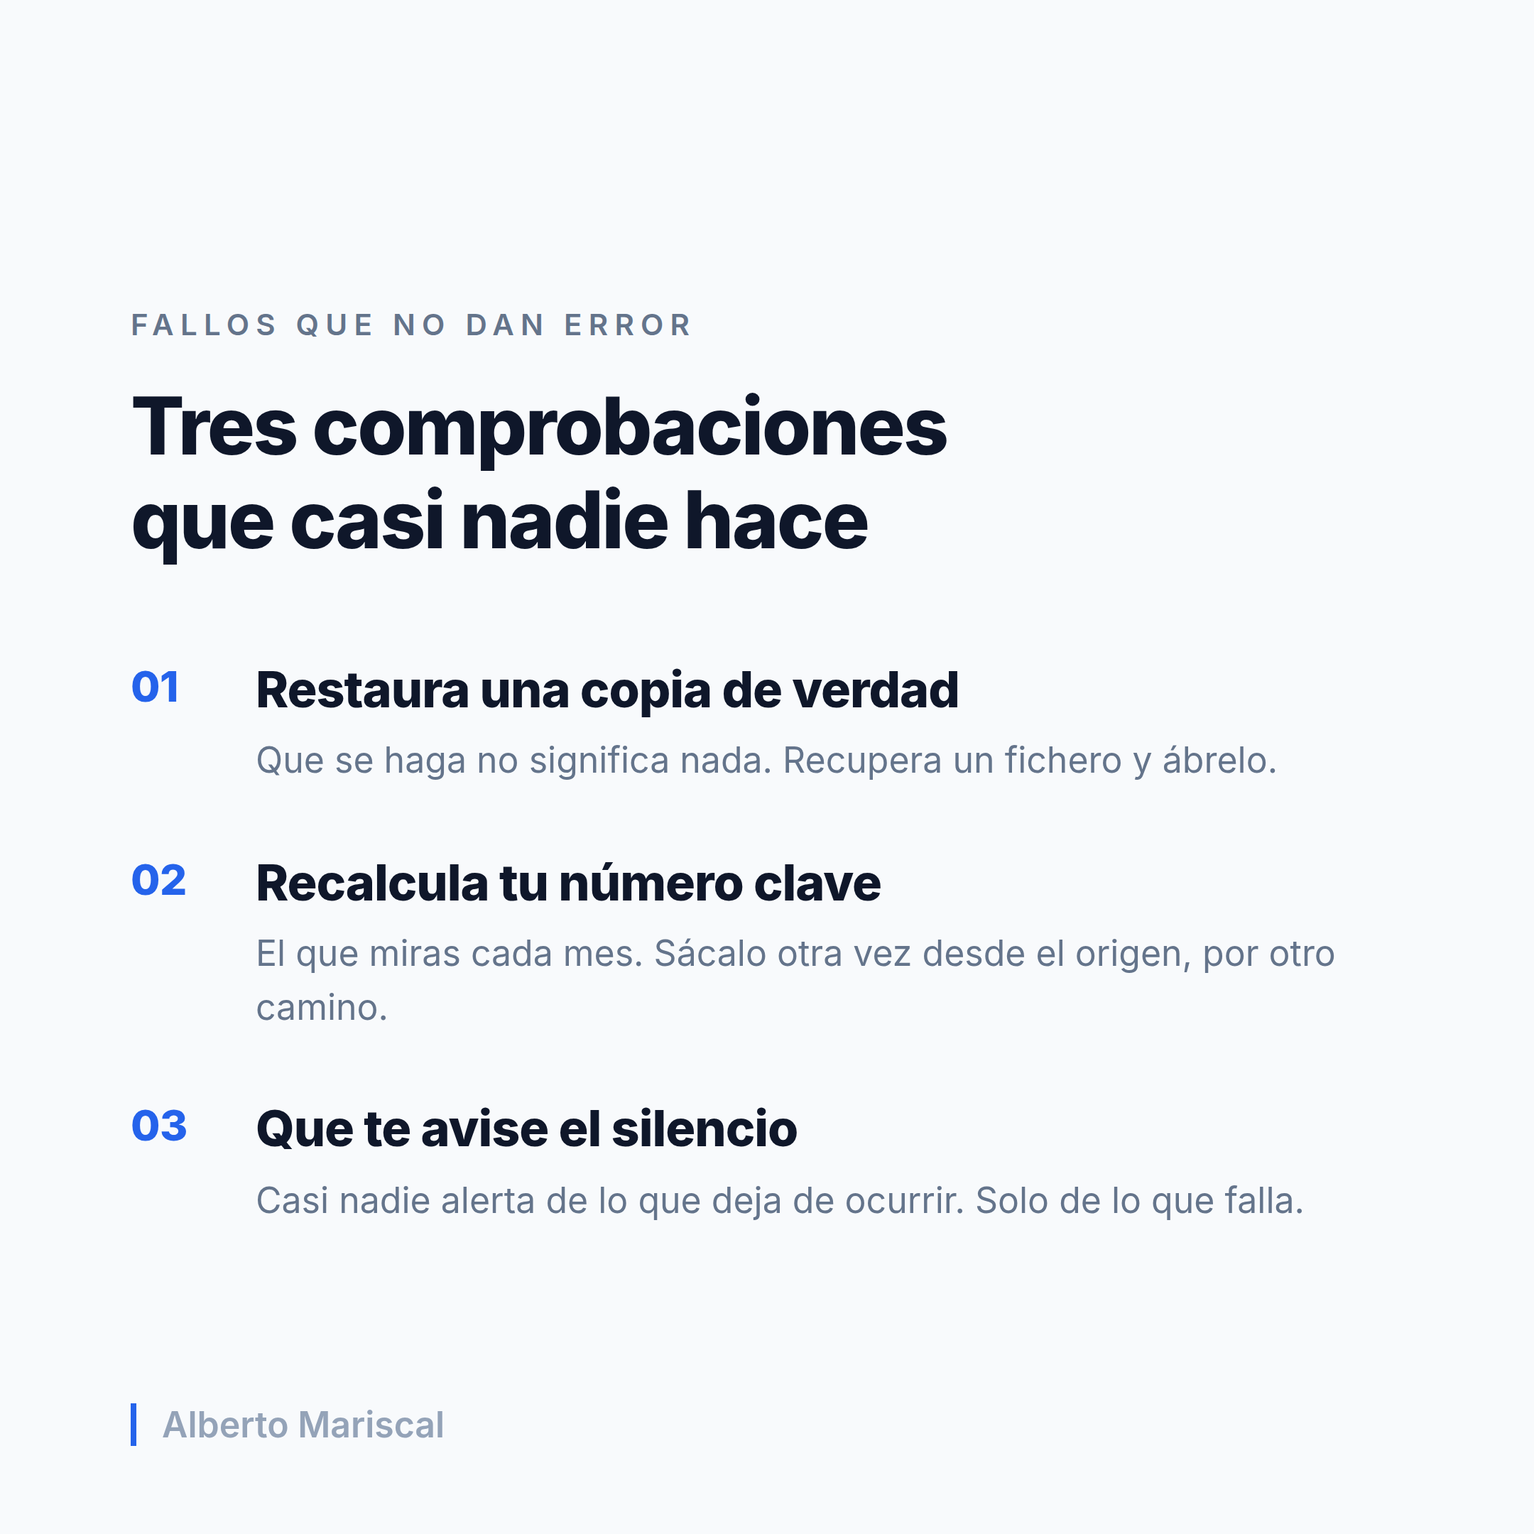
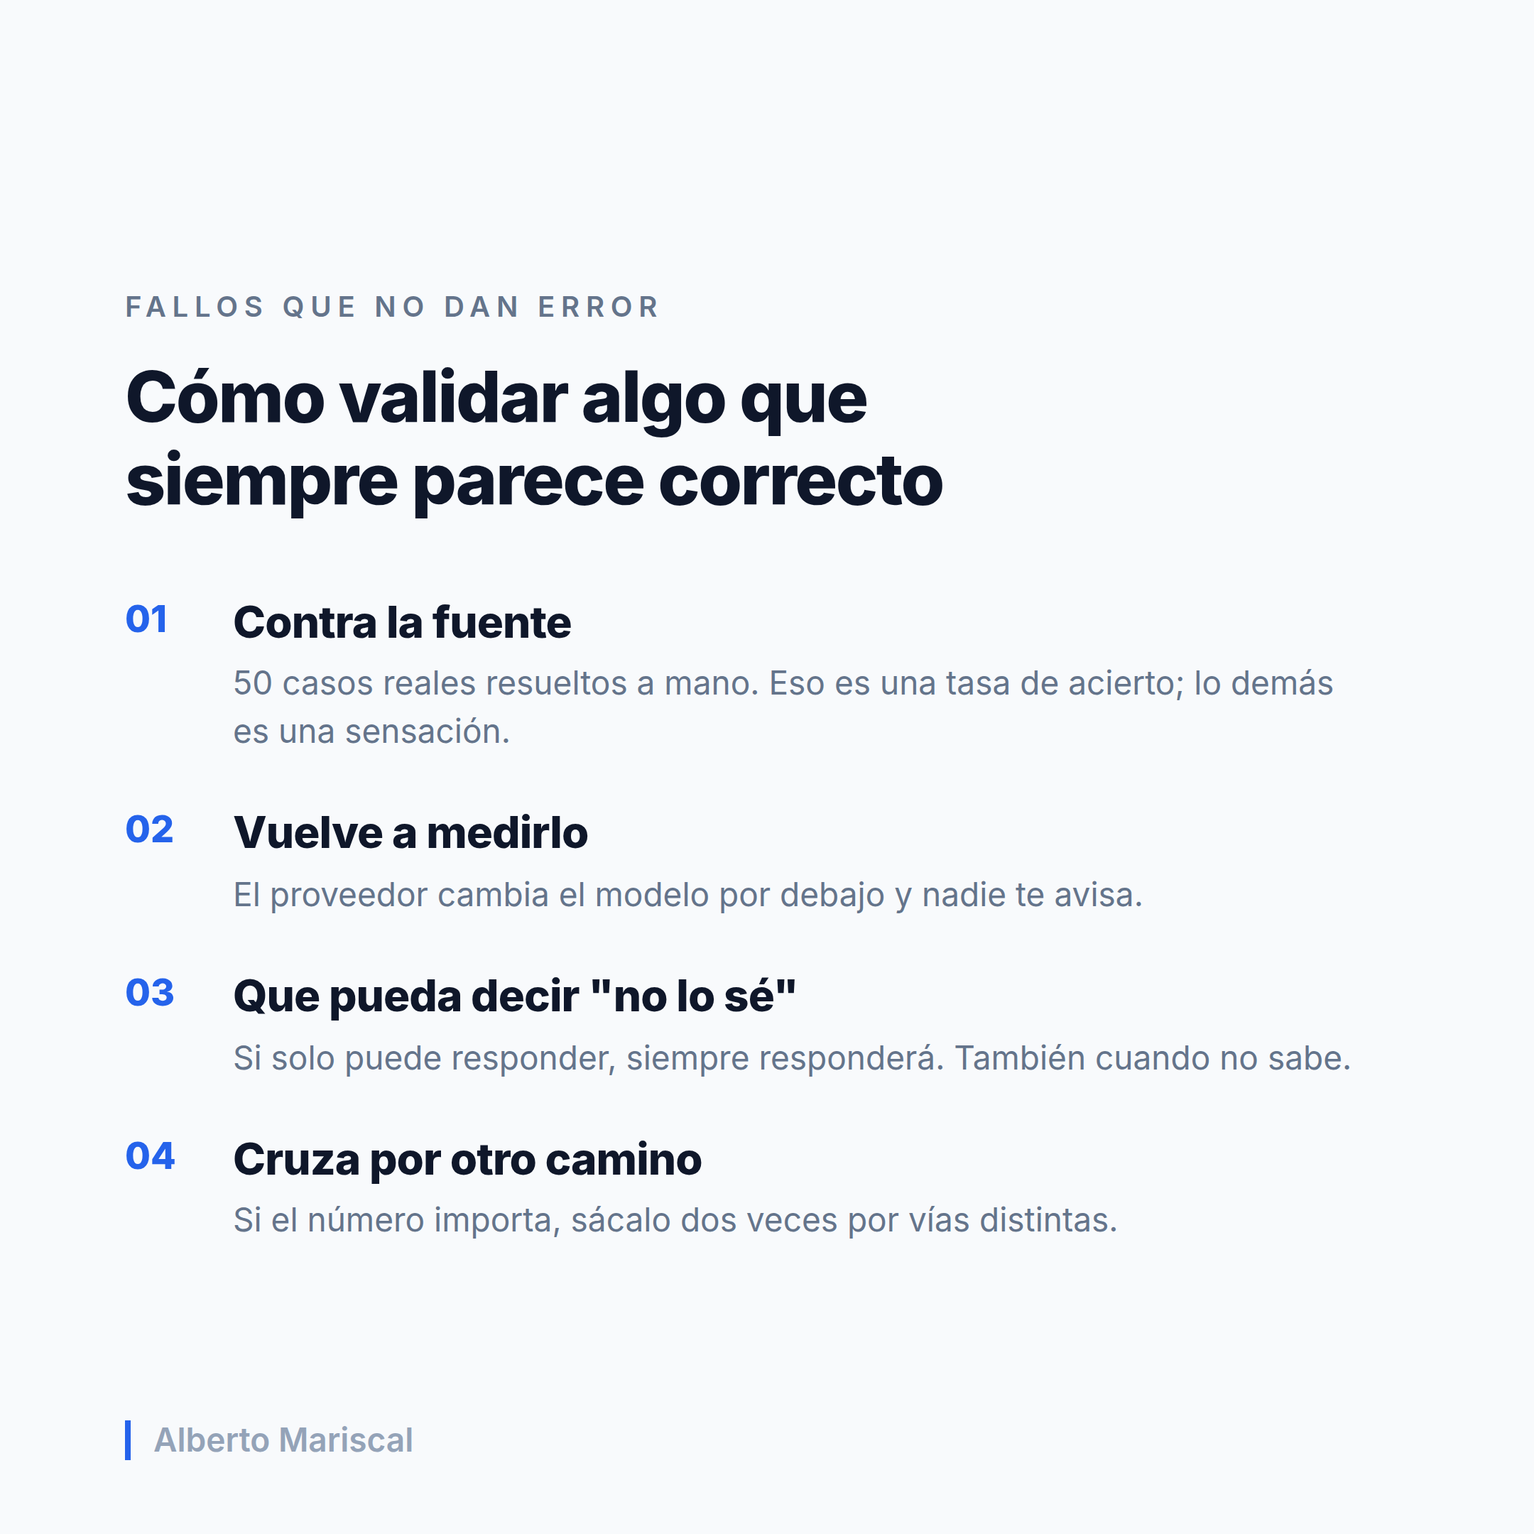
Girar el post del lunes hacia validacion de IA
Alberto: "floja la reflexion, igual mejor enlazarlo con la IA, y como se
valida y corrige". El cierre anterior era generico y no usaba nada de lo que
Alberto sabe.

El puente es de mecanismo, no de decorado: el fallo de Coldcard no producia
errores, producia resultados plausibles. Es literalmente el modo de fallo de
un modelo de lenguaje: no hay pantalla roja en ninguno de los dos casos.

- El cuerpo pasa a ser evaluacion de modelos: medir contra verdad conocida,
  volver a medir por deriva del proveedor, permitir la abstencion, cruzar por
  una segunda via.
- Se recupera el apunte sobre IA, ahora con funcion: cierra el circulo. Sigue
  etiquetado como hipotesis.
- Tarjeta nueva: "Como validar algo que siempre parece correcto".

Claude-Session: https://claude.ai/code/session_01SddKWTWgQHQW9oh6frJqEi

diff --git a/contenido-linkedin/posts/2026-08-03-fallos-silenciosos/post.md b/contenido-linkedin/posts/2026-08-03-fallos-silenciosos/post.md
@@ -1,29 +1,28 @@
-# Post — Un fallo puede estar cinco años dentro sin dar un solo error
+# Post — Cómo validar algo que siempre parece correcto
 
 **Estado:** Listo para publicar
 **Fecha prevista:** lunes 2026-08-03
-**Línea de contenido:** **Actualidad comentada**, en formato **didáctico** (ver `estrategia-contenido.md`). El caso Coldcard se usa para enseñar un concepto —*funcionar y estar bien no son lo mismo*— y termina en tres comprobaciones que el lector puede hacer esta semana. Doble lectura: reclutador lee criterio de observabilidad y calidad de dato; dueño de pyme se lleva una lista accionable. No es pitch de venta.
-**Imágenes:** `frase.png` — **fondo claro** (primera vez; hasta ahora todas las tarjetas eran azul noche) con las tres comprobaciones numeradas. Es una tarjeta pensada para **guardarse**, no para citarse: en LinkedIn el guardado pesa mucho y una lista aplicable se guarda; una frase bonita no.
+**Línea de contenido:** **Actualidad comentada**, en formato **didáctico** (ver `estrategia-contenido.md`). El caso Coldcard es el arranque, pero el cuerpo del post es **cómo se valida y se corrige la IA**. Doble lectura: reclutador lee criterio serio de evaluación y observabilidad de modelos (competencia directa de Head of Data); dueño de pyme se lleva un método aplicable. No es pitch de venta.
+**Imágenes:** `frase.png` — fondo claro, cuatro pasos de validación numerados. Tarjeta pensada para **guardarse**.
 
-## Tercera reescritura tras feedback de Alberto (2026-08-01)
+## Cuarta versión: el giro a IA (feedback de Alberto, 2026-08-01)
 
-Alberto: *"no me gusta ni la imagen y el post demasiado artificial, quiero que sea más educativo y didáctico pero que el algoritmo lo premie"*. Qué se ha cambiado y por qué:
+Alberto: *"floja la reflexión, igual mejor enlazarlo con la IA, y cómo se valida y corrige"*. Tenía razón y el giro mejora el post entero:
 
-- **El problema era el registro, no el contenido.** La versión anterior estaba escrita como ensayo: analogía de apertura literaria ("Imagínate una caja fuerte…"), giros retóricos de transición ("Y aquí es donde esto deja de ir de bitcoin", "la parte que me interesa"), párrafos en tríada simétrica. Todo eso se lee como texto *construido para producir un efecto*, que es exactamente la sensación de artificial. **Ahora el post explica en vez de sugerir**: dice lo que pasó, por qué nadie lo vio, y qué hacer.
-- **Estructura con secciones cortas** ("Qué pasó", "Por qué nadie lo vio", "Dónde tienes tú lo mismo", "Tres comprobaciones"). Es escaneable, sostiene la lectura hasta el final y da un cierre accionable.
-- **Lo que hace que el algoritmo lo premie no es un truco, es la utilidad**: las tres comprobaciones son guardables y la pregunta final ("¿cuál de las tres no habéis hecho nunca?") se puede responder en tres palabras, que es lo que genera comentarios. El gancho va en las **dos primeras líneas**, antes del corte de "ver más".
-- **La analogía de la caja fuerte se conserva**, pero ya no abre el post: pasa a estar dentro de la explicación técnica, que es donde hace falta.
-- **Nota para Alberto**: en el punto 3 me he quedado corto a propósito. Si tu experiencia lo sostiene —y creo que sí, montando funciones de datos desde cero—, la frase natural sería *"es la que más veces me he encontrado"*. No la he puesto porque no me consta por escrito; si es cierta, dila tú, que gana mucho.
+- **El puente es real, no forzado**, y esto es lo que lo sostiene: el fallo de Coldcard **no producía errores, producía resultados plausibles**. Llaves que parecían aleatorias, funcionaban y restauraban bien. Ese es, exactamente, el modo de fallo de un modelo de lenguaje: no devuelve un error, devuelve una respuesta bien escrita y segura. Una cifra inventada tiene el mismo aspecto que una buena. **No hay pantalla roja en ninguno de los dos casos.**
+- **La reflexión anterior era floja porque era genérica** ("revisa tus copias, recalcula tus números"). Servía para cualquiera y no usaba nada de lo que Alberto sabe. El cuerpo ahora es evaluación de modelos, que es terreno suyo: medir contra verdad conocida, volver a medir por deriva del proveedor, permitir la abstención, y cruzar por una segunda vía.
+- **Se recupera el apunte sobre IA que se había cortado**, ahora sí con función: cierra el círculo (la IA es lo que hay que validar y a la vez lo que está encontrando fallos latentes de años). Sigue **etiquetado como hipótesis**, porque no está confirmado.
+- **Punto 2, el que más se salta la gente**: el proveedor actualiza el modelo por debajo y nadie avisa. Mismo prompt, mismo proceso, resultados distintos. Es un fallo silencioso idéntico al de Coldcard, y por eso encaja tan bien con el arranque.
 
 ## Hechos verificados (2026-08-01)
 
 Fuente primaria: [aviso de seguridad de Coinkite](https://blog.coinkite.com/coldcard-mk3-seed-generation-warning/) y su [análisis técnico](https://blog.coinkite.com/entropy-technical-backgrounder/).
 
-- **Qué falló**: el generador de números aleatorios de las carteras físicas COLDCARD no era lo bastante aleatorio al crear la semilla. Coinkite estima ~72 bits de entropía efectiva en Mk4/Mk5/Q frente a los 128 que debería tener una semilla BIP-39 de 12 palabras; peor en Mk2/Mk3.
+- **Qué falló**: el generador de números aleatorios de las carteras físicas COLDCARD no era lo bastante aleatorio al crear la semilla (~72 bits de entropía efectiva en Mk4/Mk5/Q frente a los 128 de una semilla BIP-39 de 12 palabras; peor en Mk2/Mk3).
 - **Desde cuándo**: firmware posterior a marzo de 2021 — unos cinco años.
-- **El robo**: 30 de julio, 01:10–01:51 UTC (41 minutos), empezando por las carteras mayores.
-- **Cifra**: se movió en dos días, de ~594 BTC (~38 M$) a [~1.158 BTC (~75 M$) según Galaxy Research](https://www.cryptotimes.io/2026/08/01/coldcard-hack-hits-75m-after-alleged-second-attack-wave-galaxy-research/) tras una segunda oleada. **En el post se usa "unos 70 millones", conservadora. Revisar el lunes antes de publicar.**
-- **Estado**: los fondos siguen sin moverse. Coinkite publicó firmware corregido el 31/07.
+- **El robo**: 30 de julio, 01:10–01:51 UTC (41 minutos).
+- **Cifra**: se movió de ~594 BTC (~38 M$) a [~1.158 BTC (~75 M$) según Galaxy Research](https://www.cryptotimes.io/2026/08/01/coldcard-hack-hits-75m-after-alleged-second-attack-wave-galaxy-research/) tras una segunda oleada. **Se usa "unos 70 millones". Revisar el lunes antes de publicar.**
+- **Hipótesis, no hecho**: NVK, cofundador de Coldcard, apunta a que la revisión de código asistida por IA encuentra fallos latentes más rápido que los expertos humanos. [Bitcoin Magazine](https://bitcoinmagazine.com/business/coinkite-releases-fixed-firmware-after-coldcard-bug-ai-likely-involved-in-the-hack) lo recoge como creencia del sector. **Va etiquetado como tal en el post.**
 
 ---
 
@@ -31,49 +30,45 @@ Un fallo puede estar cinco años dentro de un sistema sin dar un solo error.
 
 Y luego costar 70 millones de dólares en 41 minutos.
 
-Pasó la semana pasada. Lo explico entero, porque el mecanismo no es de bitcoin: lo tienes tú también.
+Pasó la semana pasada, y creo que es la mejor forma de explicar el problema que tenemos ahora mismo con la IA.
 
 **Qué pasó**
 
-Hay unos aparatos, del tamaño de una calculadora, que sirven para guardar la llave de tus bitcoins sin conectarse a internet. Son de lo más seguro que existe, y por eso los usa quien tiene cantidades serias.
+Los aparatos que guardan la llave de tus bitcoins tienen que elegir, al crearla, un número al azar enorme, imposible de adivinar probando.
 
-Para crear tu llave, el aparato tiene que elegir un número al azar. Enorme. Tan grande que nadie pueda adivinarlo probando.
+Desde 2021 no lo elegían tan al azar como debían: escogían entre muchísimas menos posibilidades de las prometidas. Alguien se dio cuenta, generó todas esas posibilidades y fue abriendo. 41 minutos, unos 70 millones.
 
-Ahí estaba el fallo: desde 2021 no elegía tan al azar como creía. Escogía entre muchísimas menos posibilidades de las prometidas. Como una caja fuerte que por fuera es idéntica a las demás pero por dentro solo tiene unos cientos de combinaciones.
+**El detalle que importa**
 
-Alguien lo descubrió, generó todas esas combinaciones y fue abriendo. 41 minutos, unos 70 millones.
+El aparato nunca dio un resultado erróneo.
 
-**Por qué nadie lo vio antes**
+Daba resultados perfectamente plausibles: llaves que parecían aleatorias, que funcionaban, que guardaban y devolvían el dinero. Cinco años así. Si lo revisabas, no veías nada, porque no había nada que ver.
 
-Esta es la parte que merece la pena aprenderse.
+Ese es el fallo más caro que existe: el que no produce errores, produce resultados creíbles.
 
-Durante cinco años, el aparato funcionó. Se encendía, guardaba, devolvía el dinero cuando tocaba, no dio ni un error. Podías revisarlo cada mañana y no habrías visto nada, porque no había nada que ver.
+**Y esto es exactamente la IA**
 
-Funcionar y estar bien no son lo mismo.
+Un modelo no te devuelve un error cuando se equivoca. Te devuelve una respuesta bien escrita, segura y con el formato correcto. Una cifra inventada tiene el mismo aspecto que una cifra buena. No hay pantalla roja.
 
-Un sistema roto que además falla es el caso fácil: te avisa. El problema es el sistema roto que funciona, porque entonces el silencio se interpreta como que todo va bien. Y no es una señal de nada.
+Si tu forma de validar la IA es leer lo que sale y ver si suena bien, no estás validando: estás midiendo lo plausible que es. Que es justo lo que el modelo está optimizando.
 
-**Dónde tienes tú exactamente lo mismo**
+**Cómo se valida de verdad**
 
-Un informe que suma mal desde que alguien tocó una fórmula, y con el que llevas meses decidiendo.
+1. Contra la fuente, no contra tu criterio. Coge 50 casos reales, resuélvelos a mano y compara. Ahora tienes una tasa de acierto. Antes tenías una sensación.
 
-Una copia de seguridad que se hace cada noche sin fallar y que nadie ha restaurado nunca.
+2. Vuelve a medirlo cada cierto tiempo. Esto se lo salta casi todo el mundo: el proveedor actualiza el modelo por debajo y nadie te avisa. Mismo prompt, mismo proceso, resultados distintos. Lo que iba al 95% en marzo puede ir al 80% en julio sin que hayas tocado nada.
 
-Un proceso automático que dejó de ejecutarse en marzo. Cuando funcionaba no mandaba correos; cuando dejó de hacerlo, tampoco.
+3. Deja que pueda decir "no lo sé". Si la única salida posible es una respuesta, siempre habrá respuesta, también cuando no la hay. Un sistema que puede parar y pasarle el caso a una persona se equivoca muchísimo menos que uno obligado a contestar.
 
-Ninguno da error. Por eso siguen ahí.
+4. Cruza por otro camino. Si el número importa, sácalo también por una vía distinta. Si las dos coinciden, te lo crees. Si no, acabas de encontrar algo.
 
-**Tres comprobaciones para esta semana**
+**Un apunte para terminar**
 
-1. Restaura una copia de verdad. Que se haga no significa nada. Coge la de anoche, recupera un fichero en otro sitio y ábrelo. Hasta que no has recuperado algo, no tienes una copia: tienes un proceso que dice que sí.
+Sobre cómo se descubrió el fallo de esas carteras no hay confirmación, pero el cofundador de la empresa apunta a algo que ya se está viendo en el sector: la revisión de código con IA encuentra fallos latentes más rápido que los mejores expertos humanos.
 
-2. Recalcula a mano tu número más importante. Ese con el que decides cada mes. Sácalo otra vez desde el origen y por otro camino. Si no cuadra, ya has encontrado uno.
+Así que la IA es las dos cosas a la vez. Lo que más cuidado hay que tener en validar, y lo que mejor está encontrando lo que llevaba años sin que nadie lo validara.
 
-3. Haz que te avise el silencio. Casi todas las alertas saltan cuando algo falla. Casi ninguna salta cuando algo deja de ocurrir. Si tienes un proceso que debe ejecutarse cada lunes, lo que necesitas es un aviso el lunes que no se ejecute.
-
-La tercera es la más barata de montar y la que casi nadie tiene puesta.
-
-¿Cuál de las tres no habéis hecho nunca?
+¿Cómo estáis comprobando hoy que lo que os devuelve la IA es correcto?
 
 ---
 

diff --git a/contenido-linkedin/calendario.md b/contenido-linkedin/calendario.md
@@ -8,7 +8,7 @@ Dos tablas: **Backlog** (borradores listos o en curso, sin publicar todavía) e 
 
 | Estado | Título/Tema | Carpeta | Fecha prevista | Notas |
 |---|---|---|---|---|
-| Listo | Un fallo puede estar cinco años dentro sin dar un solo error (caso Coldcard, formato didáctico) | `posts/2026-08-03-fallos-silenciosos/` | 2026-08-03 (lun) | **Actualidad comentada** (línea nueva). Un fallo de cinco años en una cartera física de bitcoin sirve para hablar de **fallos que no dan error** en una pyme (informes que suman mal, copias sin restaurar, procesos parados). Reescrito dos veces tras feedback: (1) explicarlo desde cero con una analogía, sin jerga; (2) el puente no es el robo, es el silencio — se descartó la versión del "aviso de seguridad para tu Excel" por falsa. Hechos contra el aviso oficial de Coinkite. **Caduca**: revisar la cifra antes de publicar. Incluye `frase.png` |
+| Listo | Cómo validar algo que siempre parece correcto (caso Coldcard → validación de IA) | `posts/2026-08-03-fallos-silenciosos/` | 2026-08-03 (lun) | **Actualidad comentada**, formato didáctico. El fallo de Coldcard no daba errores: daba resultados **plausibles**, que es el modo de fallo de un modelo de IA. El cuerpo del post es cómo se valida y corrige la IA (medir contra verdad conocida, volver a medir por deriva del proveedor, permitir "no lo sé", cruzar por otra vía). Cuatro reescrituras hasta dar con el ángulo. Hechos contra el aviso oficial de Coinkite; la implicación de IA va como hipótesis. **Caduca**: revisar la cifra antes de publicar. Incluye `frase.png` (fondo claro, guardable) |
 | Listo | La IA no se ha encarecido: es que ahora vas a ver el contador (Siri de pago) | `posts/2026-08-05-ia-de-pago/` | 2026-08-05 (mié) | **Actualidad comentada** (línea nueva). Cook dijo el 30/07 que los usuarios intensivos de Siri irán a iCloud+ de pago; el post lo usa para decir que la fase de IA gratis se acaba y hay que tratarla como coste variable. Precios/fechas **no confirmados**: el post no da cifras. Cierra el arco DNI → APIs/MCP → factura. Incluye `frase.png` |
 | Listo | Las mejores decisiones nacen de centralizar y relacionar los datos, no de analizar por separado | `posts/2026-07-16-herramientas-desconectadas/` | 2026-08-04 (mar) | **Replanificado**: no se publicó el 16/07; Alberto lo lleva a la semana del 3 de agosto. El nombre de la carpeta conserva la fecha original (no se renombra para no romper referencias). Reformulado dos veces tras feedback: (1) evitar sonar a queja de la empresa actual, (2) precisar que la visión estratégica sale de centralizar y relacionar datos entre departamentos, no solo de "conectar" |
 | Listo | Cada vez más clientes van a querer sus datos fuera, y las empresas tendrán que adaptarse (APIs y MCPs) | `posts/2026-08-06-apis-y-mcps/` | 2026-08-06 (jue) | Caso/evidencia real: `almariscal/seguimiento_economico` (herramienta propia para unificar inversiones). Segunda parte del post del DNI: si cualquiera se construye su herramienta con IA, la demanda de sacar los datos crece y quien los guarda tendrá que permitir cada vez más extracción. Contrapunto verificado: Revolut abrió Revolut X a asistentes de IA vía MCP (anuncio 10/07/2026). **Sin enlace** (repo privado) y **sin detalle de las plataformas** que usa Alberto. Incluye `frase.png` (tarjeta-cita) |

diff --git a/seguimiento/registro-sesiones.md b/seguimiento/registro-sesiones.md
@@ -270,3 +270,12 @@ Alberto tumba también esa versión: *"el post demasiado artificial, quiero que 
 - **Post reescrito** con cuatro secciones (Qué pasó / Por qué nadie lo vio / Dónde tienes tú lo mismo / Tres comprobaciones). El concepto que enseña: *funcionar y estar bien no son lo mismo; el silencio no es señal de nada*. La analogía de la caja fuerte se conserva pero ya no abre, va dentro de la explicación.
 - **Tarjeta nueva y cambio de plantilla**: primera tarjeta de **fondo claro** (las cuatro anteriores eran azul noche) con las tres comprobaciones numeradas. Pensada para **guardarse**, no para citarse. Queda como criterio: si el post enseña algo, la imagen lleva el resumen aplicable, y se alterna claro/oscuro para que el perfil no parezca una sola plantilla.
 - **Pendiente para Alberto**: en la comprobación 3 no se afirma que sea la que más veces se ha encontrado, aunque es probable que su experiencia lo sostenga. No consta por escrito, así que no se pone; si es cierta, que la diga él.
+
+### 2026-08-01 (cont. 4) — El giro que arregla el post: enlazarlo con validación de IA
+Alberto: *"floja la reflexión, igual mejor enlazarlo con la IA, y cómo se valida y corrige"*. Es el mejor cambio de toda la sesión y conviene entender por qué, porque aplica a los siguientes posts:
+
+- **Por qué la reflexión anterior era floja**: era genérica. "Restaura una copia, recalcula tu número, monta una alerta" vale para cualquiera que escriba de gestión y **no usaba nada de lo que Alberto sabe**. Un post de autoridad tiene que apoyarse en el terreno propio; si no, es un consejo de LinkedIn más. Regla implícita que queda: si el cierre de un post lo podría haber escrito cualquiera, es que falta el ángulo de Alberto.
+- **Por qué el puente con IA sí funciona** (y no es un salto forzado): el fallo de Coldcard **no producía errores, producía resultados plausibles** — llaves que parecían aleatorias, funcionaban y restauraban bien. Ese es literalmente el modo de fallo de un modelo de lenguaje: no devuelve un error, devuelve una respuesta bien escrita y segura, y una cifra inventada tiene el mismo aspecto que una buena. En los dos casos no hay pantalla roja. El paralelismo es de mecanismo, no de decorado — que es justo lo que fallaba en la versión del Excel.
+- **El cuerpo del post pasa a ser evaluación de modelos**, terreno propio de Alberto: (1) medir contra verdad conocida con una muestra resuelta a mano; (2) volver a medir, porque el proveedor cambia el modelo por debajo sin avisar — un fallo silencioso idéntico al del arranque; (3) permitir la abstención ("no lo sé") en vez de forzar una respuesta siempre; (4) cruzar por una segunda vía independiente.
+- **Se recupera el apunte sobre IA que se había cortado** en la versión anterior, ahora con función: cierra el círculo (la IA es lo que hay que validar **y** lo que está encontrando fallos latentes de años). Sigue etiquetado como hipótesis.
+- **Tarjeta rehecha**: *"Cómo validar algo que siempre parece correcto"*, fondo claro, los cuatro pasos numerados. Sigue siendo una tarjeta para guardar.
